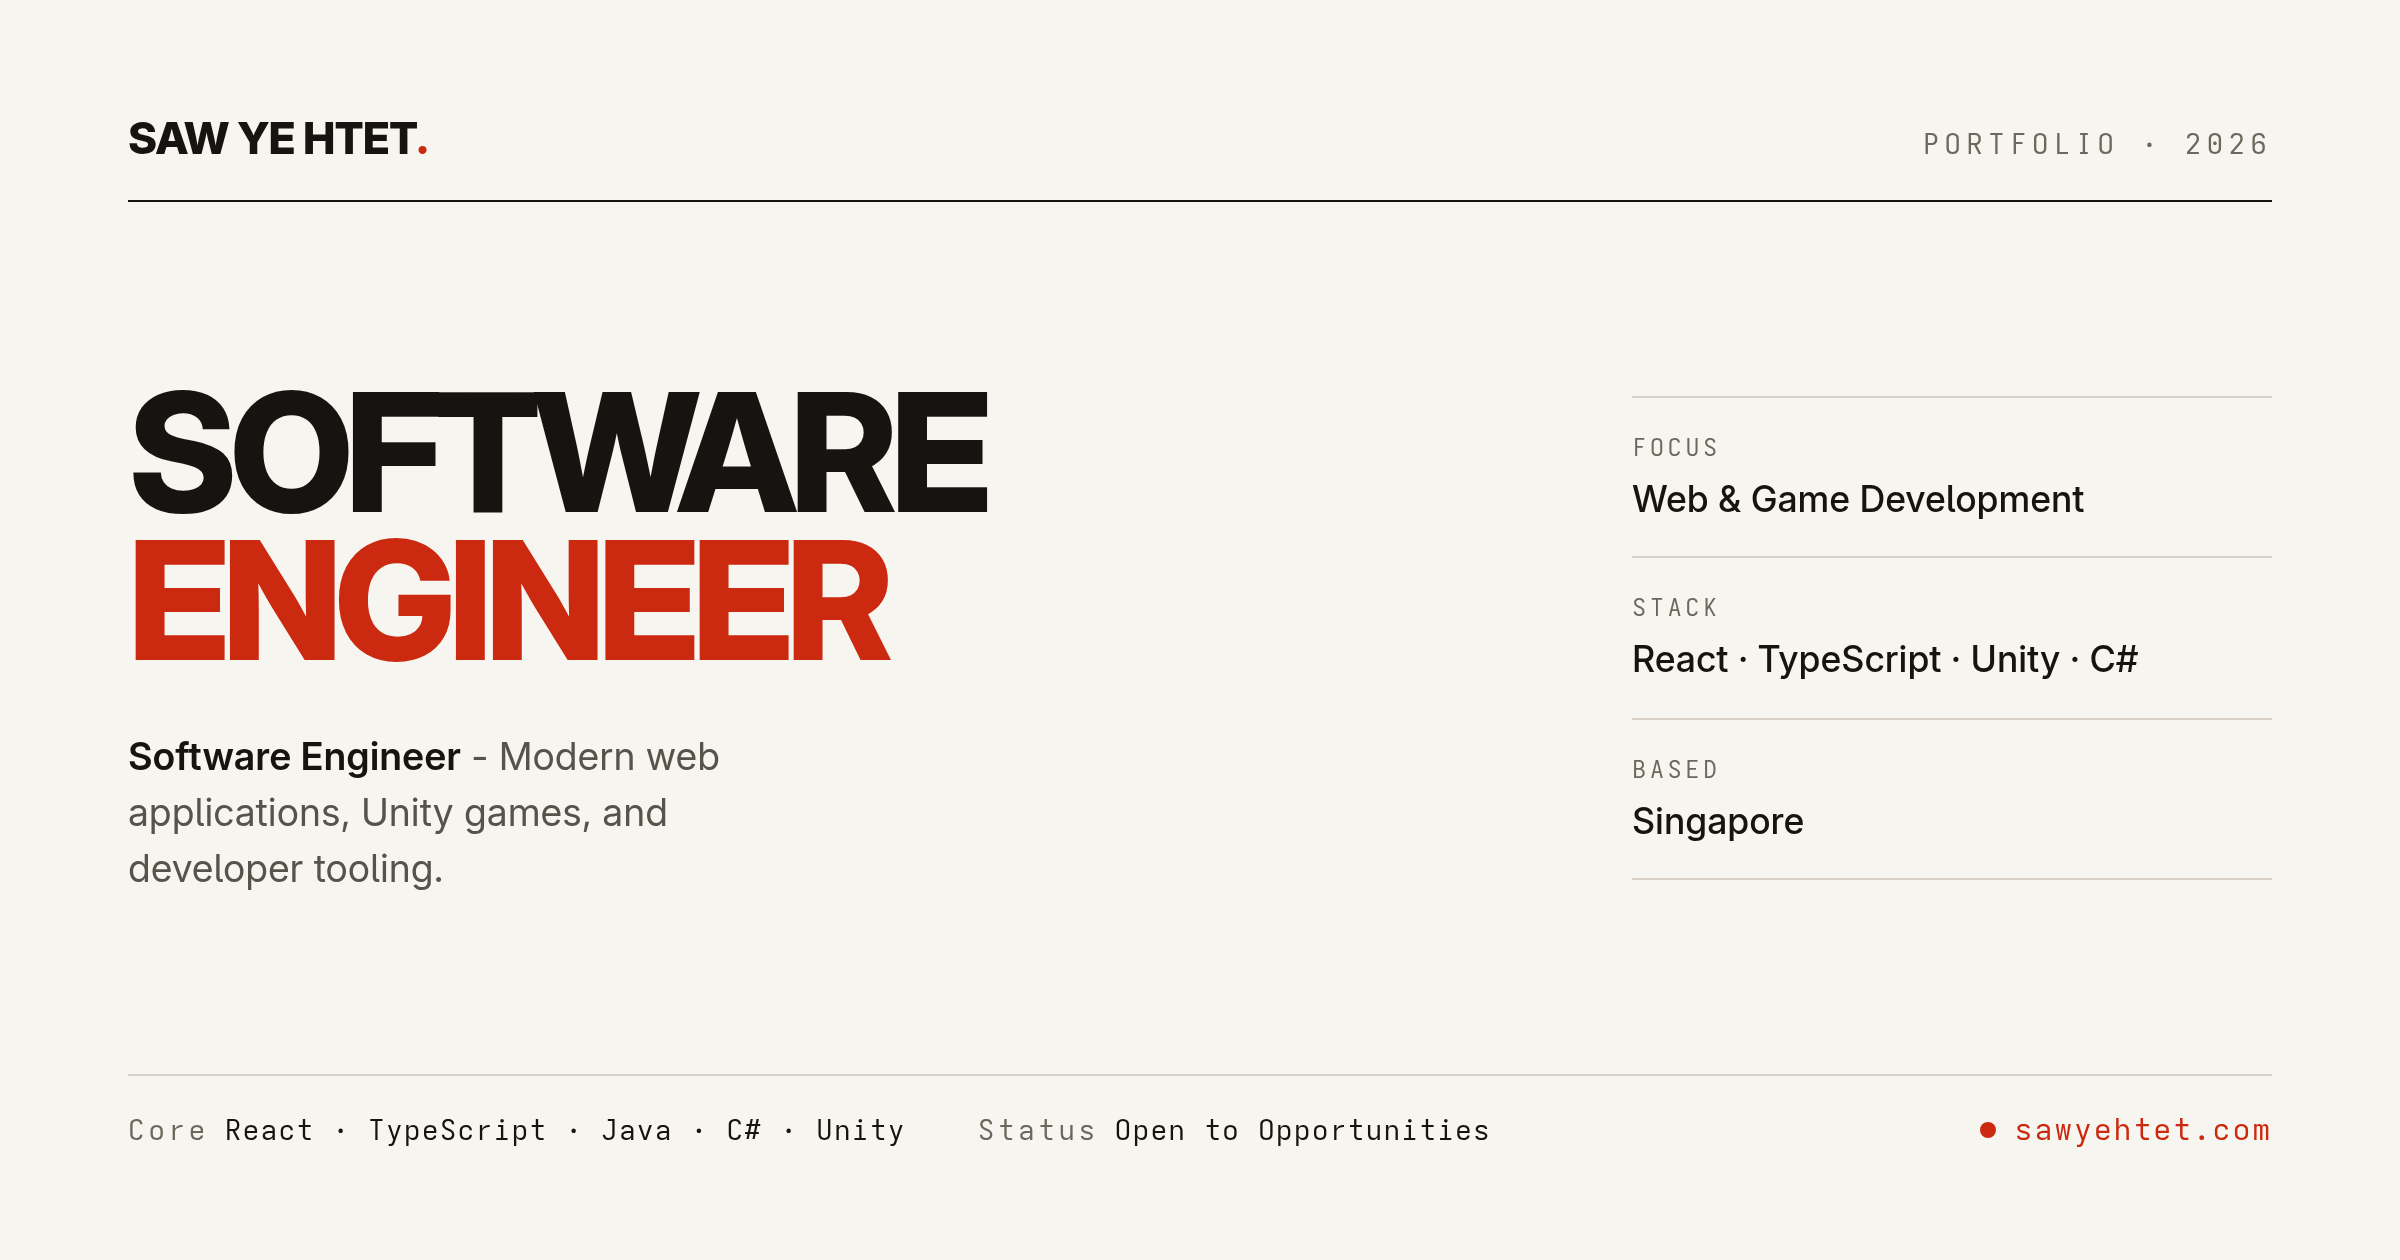
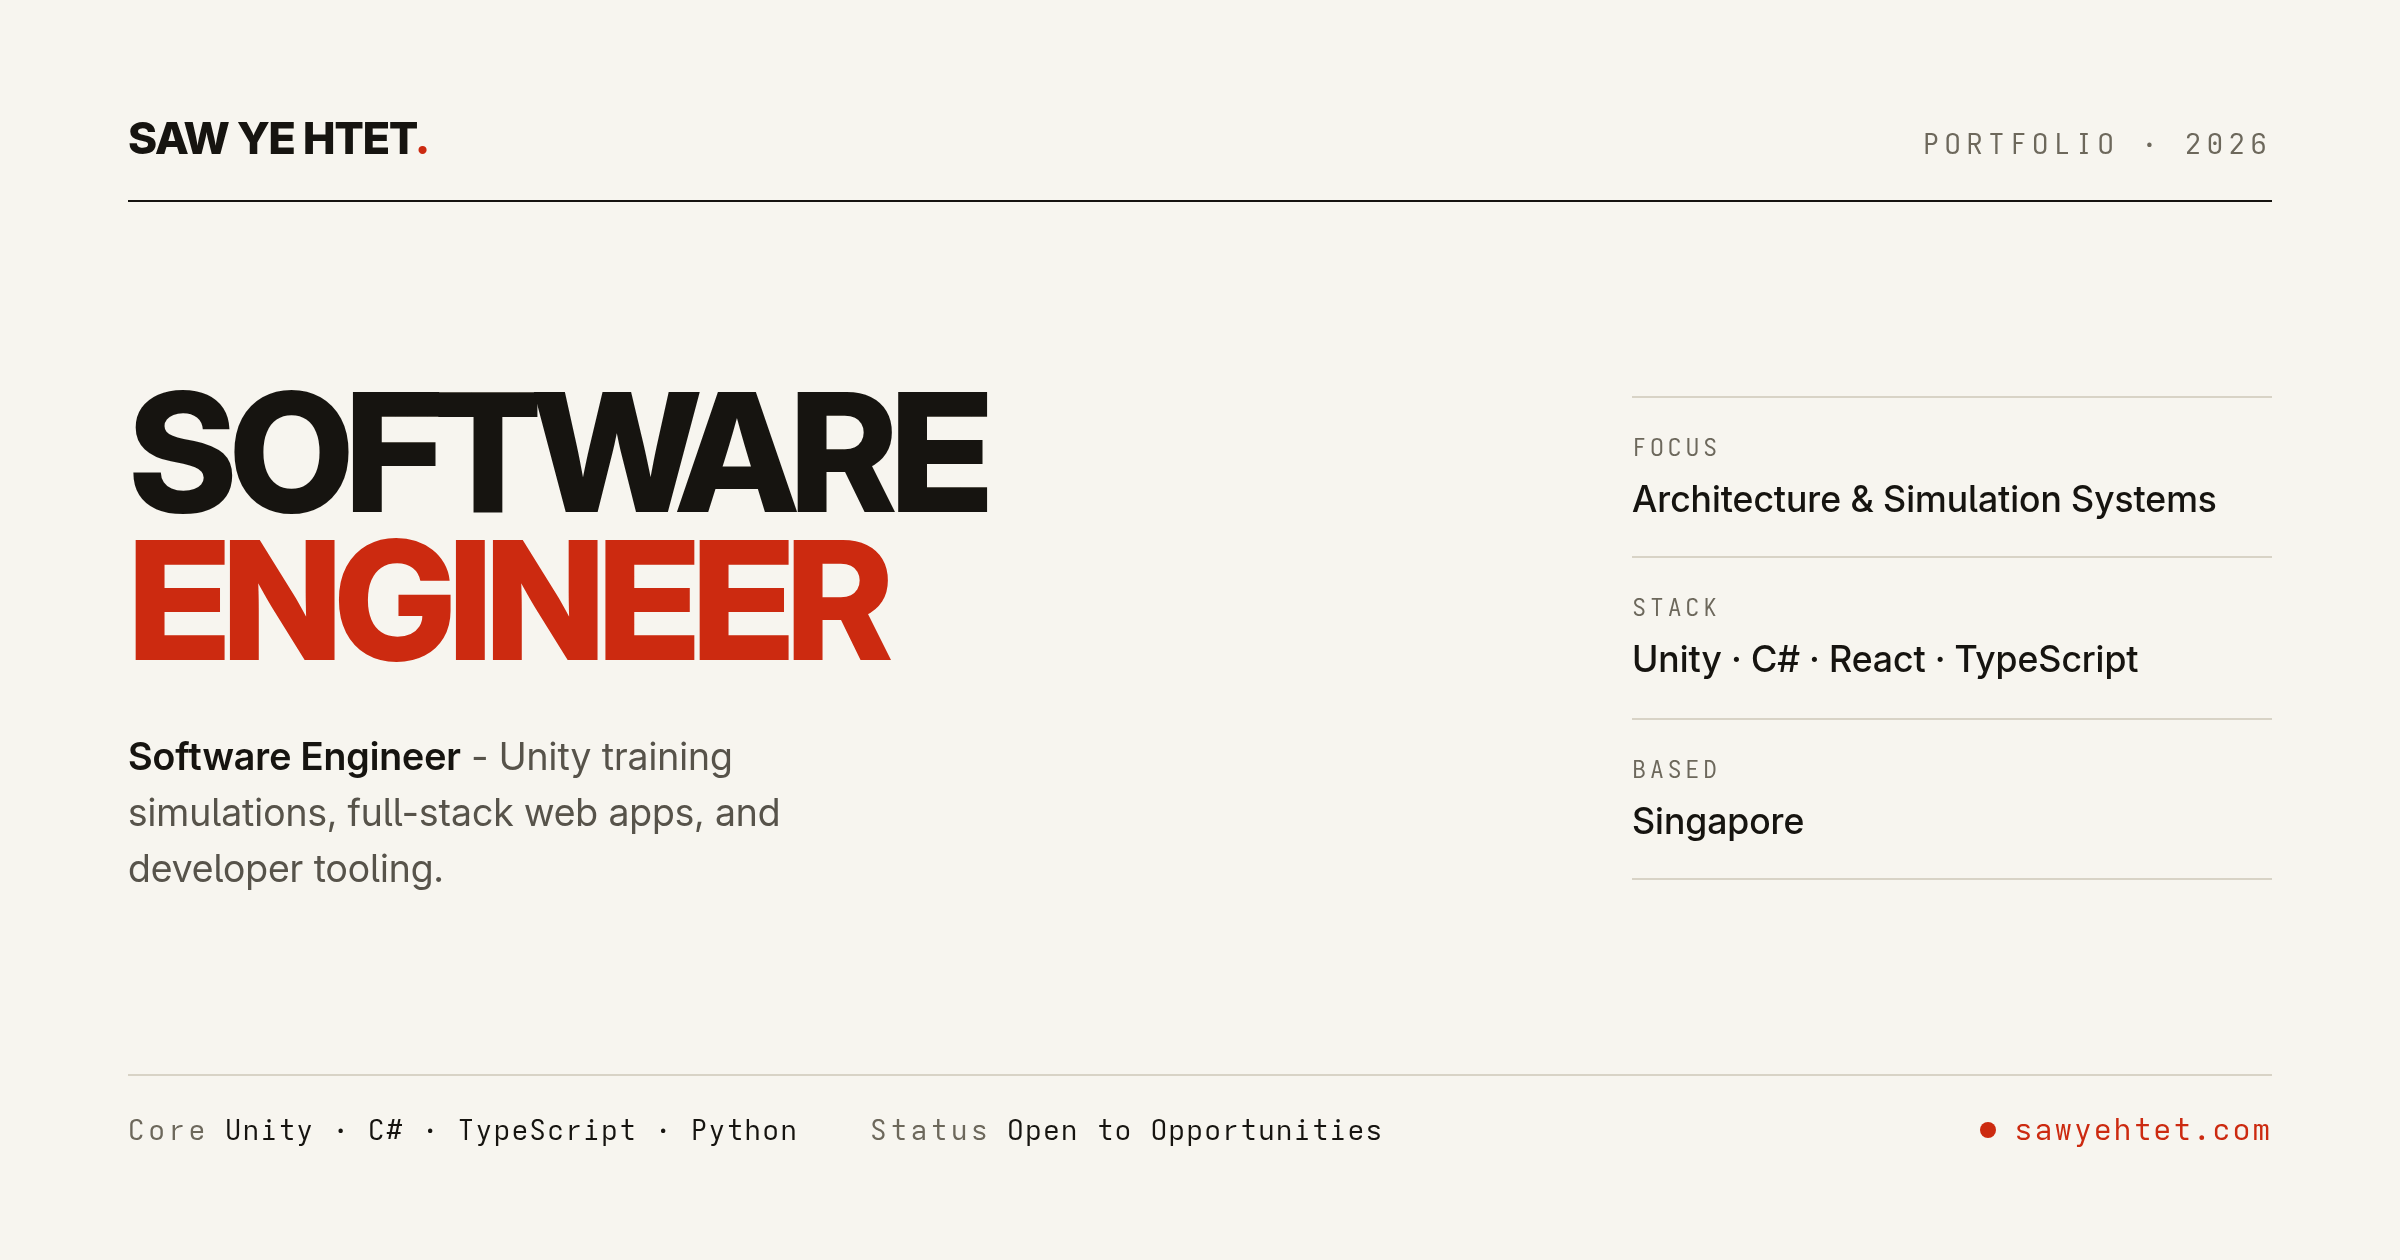
feat(copy): retune positioning toward Unity training-simulation roles

diff --git a/src/config/editorial-data.ts b/src/config/editorial-data.ts
@@ -7,9 +7,9 @@ export const EXPERIENCE: ExperienceItem[] = [
         period: 'Apr 2025 – Feb 2026',
         location: 'Singapore',
         bullets: [
-            'Built and maintained Unity (C#) VR training scenarios used across the centre\'s maritime safety research programmes on Meta Quest hardware.',
-            'Owned the delivery loop end to end: translating researcher requirements into scenario flows, shipping builds, and running user testing with trainees.',
-            'Authored reproducible setup and troubleshooting guides that let centre staff run lab sessions without developer support.',
+            'Built and maintained Unity (C#) training environments and scenarios used across the centre\'s maritime safety research programmes on Meta Quest hardware.',
+            'Owned the delivery loop end to end: translating subject-matter-expert requirements into configurable scenario flows, shipping builds, and running user testing with trainees to keep training realism.',
+            'Authored reproducible setup and troubleshooting guides that ensured codebase and lab continuity, letting centre staff run sessions without developer support.',
         ],
         stack: ['Unity (C#)', 'Meta Quest', 'XR Interaction Toolkit', 'OculusXR'],
     },
@@ -27,42 +27,18 @@ export const EXPERIENCE: ExperienceItem[] = [
 
 export const PROJECTS: Project[] = [
     {
-        id: 'tokey',
-        title: 'Tokey: Token & Cost Tracker for Claude Code',
-        role: 'Developer',
-        summary:
-            'Real-time per-prompt token cost tracker CLI for Claude Code, built to monitor LLM usage directly in developer terminal workflows.',
-        context: 'Independent open-source CLI tool for Claude Code (2026)',
-        whatIBuilt:
-            'Built an asynchronous Python CLI tool that parses terminal event streams in real time to calculate live token usage and per-prompt cost estimations directly without external transcript scraping dependencies or latency overhead.',
-        tools: ['Python', 'pytest', 'CLI Architecture', 'Git'],
-        outcome:
-            'Published as an open-source CLI package on GitHub backed by a 293-test unit test suite built with Test-Driven Development (TDD).',
-        videoPreview: '/images/projects/tokey-preview.mp4',
-        links: [
-            {
-                label: 'View on GitHub',
-                href: 'https://github.com/sawyehtet-dev/tokey',
-            },
-            {
-                label: 'LinkedIn Post',
-                href: 'https://www.linkedin.com/posts/sawyehtet_i-made-a-small-tool-for-claude-code-cli-called-ugcPost-7472600055208865792-RM7I/',
-            },
-        ],
-    },
-    {
         id: 'maritime-vr',
         title: 'Methanol Bunkering Safety VR Training',
         role: 'Unity VR Developer',
         summary:
-            'Interactive VR safety training scenarios for maritime emergency response and clean fuel handling research at SP CEMS.',
+            'Interactive VR training simulation for maritime emergency response and clean fuel handling, built with Unity for safety research at SP CEMS.',
         context:
             'Centre of Excellence in Maritime Safety (CEMS), Singapore Polytechnic (Apr 2025 – Feb 2026)',
         whatIBuilt:
-            'Built modular C# state machines with explicit step preconditions for maritime emergency procedures, integrating OculusXR and XR Interaction Toolkit for reliable Quest controller mapping. Tuned dynamic LOD and draw call batching to maintain 90 FPS on standalone Quest hardware.',
-        tools: ['Unity 3D', 'C#', 'XR Interaction Toolkit', 'OculusXR', 'Meta Quest'],
+            'Designed a modular C# state-machine architecture with explicit step preconditions for configurable training scenarios, integrating OculusXR and XR Interaction Toolkit for reliable operator-facing interactions on Quest controllers. Tuned dynamic LOD and draw call batching to maintain 90 FPS on standalone hardware.',
+        tools: ['Unity 3D', 'C#', 'Scene Management', 'XR Interaction Toolkit', 'OculusXR', 'Meta Quest'],
         outcome:
-            'Deployed in 12 structured lab sessions over 11 months, providing researchers with consistent simulation data and staff with independent setup guides.',
+            'Deployed in 12 structured lab sessions over 11 months, giving researchers consistent simulation data and staff documentation to run sessions independently.',
         videoPreview: '/images/projects/methanol-bunkering-preview.mp4',
         links: [
             {
@@ -100,23 +76,49 @@ export const PROJECTS: Project[] = [
             },
         ],
     },
+    {
+        id: 'tokey',
+        title: 'Tokey: Token & Cost Tracker for Claude Code',
+        role: 'Developer',
+        summary:
+            'Real-time per-prompt token cost tracker CLI for Claude Code, built to monitor LLM usage directly in developer terminal workflows.',
+        context: 'Independent open-source CLI tool for Claude Code (2026)',
+        whatIBuilt:
+            'Built an asynchronous Python CLI tool that parses terminal event streams in real time to calculate live token usage and per-prompt cost estimations directly without external transcript scraping dependencies or latency overhead.',
+        tools: ['Python', 'pytest', 'CLI Architecture', 'Git'],
+        outcome:
+            'Published as an open-source CLI package on GitHub backed by a 293-test unit test suite built with Test-Driven Development (TDD).',
+        videoPreview: '/images/projects/tokey-preview.mp4',
+        links: [
+            {
+                label: 'View on GitHub',
+                href: 'https://github.com/sawyehtet-dev/tokey',
+            },
+            {
+                label: 'LinkedIn Post',
+                href: 'https://www.linkedin.com/posts/sawyehtet_i-made-a-small-tool-for-claude-code-cli-called-ugcPost-7472600055208865792-RM7I/',
+            },
+        ],
+    },
 ];
 
 export const SKILLS: SkillGroup[] = [
     {
-        category: 'Programming Languages',
-        tools: ['Java', 'C#', 'TypeScript', 'JavaScript', 'Python', 'SQL'],
-    },
-    {
         category: 'Game & XR Development',
         tools: [
             'Unity 3D (C#)',
+            'Scene Management',
+            'Performance Optimization',
             'Meta Interaction SDK',
             'XR Interaction Toolkit',
             'OpenXR',
             'bHaptics SDK',
             'Hand Tracking',
         ],
+    },
+    {
+        category: 'Programming Languages',
+        tools: ['C#', 'Python', 'Java', 'TypeScript', 'JavaScript', 'SQL'],
     },
     {
         category: 'Web & Backend',
@@ -126,8 +128,8 @@ export const SKILLS: SkillGroup[] = [
         category: 'Engineering & Tools',
         tools: [
             'Test-Driven Development (TDD)',
-            'pytest',
             'Git & GitHub',
+            'pytest',
             'Linux CLI',
             'Postman',
             'Vite',

diff --git a/index.html b/index.html
@@ -5,7 +5,7 @@
         <meta name="viewport" content="width=device-width, initial-scale=1.0, viewport-fit=cover" />
         <meta
             name="description"
-            content="Software Engineer in Singapore building modern web applications, Unity games, and developer tooling. View case studies and resume."
+            content="Software Engineer in Singapore building Unity training simulations, web applications, and developer tooling. Clean architecture, TDD, and cross-team collaboration. View case studies and resume."
         />
         <meta name="robots" content="index, follow" />
         <meta name="application-name" content="Saw Ye Htet" />
@@ -17,7 +17,7 @@
         <meta property="og:title" content="Saw Ye Htet" />
         <meta
             property="og:description"
-            content="Software Engineer in Singapore building modern web applications, Unity games, and developer tooling. View case studies and resume."
+            content="Software Engineer in Singapore building Unity training simulations, web applications, and developer tooling. Clean architecture, TDD, and cross-team collaboration. View case studies and resume."
         />
         <meta property="og:image" content="https://sawyehtet.com/images/og-preview.png" />
         <meta property="og:image:width" content="2400" />
@@ -29,7 +29,7 @@
         <meta name="twitter:title" content="Saw Ye Htet" />
         <meta
             name="twitter:description"
-            content="Software Engineer in Singapore building modern web applications, Unity games, and developer tooling. View case studies and resume."
+            content="Software Engineer in Singapore building Unity training simulations, web applications, and developer tooling. Clean architecture, TDD, and cross-team collaboration. View case studies and resume."
         />
         <meta name="twitter:url" content="https://sawyehtet.com/" />
         <meta name="twitter:image" content="https://sawyehtet.com/images/og-preview.png" />
@@ -113,7 +113,7 @@
                 "image": "https://sawyehtet.com/images/profile-picture.webp",
                 "email": "sawyehtet.dev@gmail.com",
                 "jobTitle": "Software Engineer",
-                "description": "Singapore Polytechnic IT graduate (2026) and Software Engineer specializing in modern web applications, Unity games, and developer tooling.",
+                "description": "Singapore Polytechnic IT graduate (2026) and Software Engineer specializing in Unity training simulations, web applications, and developer tooling, with a focus on architecture and cross-team collaboration.",
                 "address": {
                     "@type": "PostalAddress",
                     "addressCountry": "SG"
@@ -133,18 +133,23 @@
                     }
                 },
                 "knowsAbout": [
+                    "Game Development",
+                    "Training Simulation",
+                    "Unity 3D",
+                    "C#",
+                    "Scene Management",
+                    "Virtual Reality",
+                    "Meta Quest",
+                    "Extended Reality (XR)",
+                    "Performance Optimization",
                     "Web Development",
                     "React",
                     "TypeScript",
                     "JavaScript",
                     "Java",
-                    "C#",
-                    "Unity 3D",
-                    "Virtual Reality",
-                    "Meta Quest",
+                    "Python",
                     "REST APIs",
                     "SQL",
-                    "Python",
                     "Test-Driven Development (TDD)"
                 ],
                 "sameAs": [
@@ -186,11 +191,12 @@
                 >
                     <h1 style="font-size: 26px; margin: 0 0 4px; font-weight: 700">Saw Ye Htet</h1>
                     <p style="margin: 0 0 16px; font-size: 17px; opacity: 0.85; font-weight: 600">
-                        Software Engineer · Web &amp; Game Development
+                        Software Engineer · Unity Simulations &amp; Full-Stack Web
                     </p>
                     <p style="margin: 0 0 24px; font-size: 14px; opacity: 0.7; line-height: 1.6">
                         Singapore Polytechnic IT graduate (2026) and Software Engineer specializing in
-                        modern web applications, Unity games, and developer tooling.
+                        Unity training simulations, web applications, and developer tooling, with a
+                        focus on architecture and cross-team collaboration.
                     </p>
                     <div style="display: flex; gap: 10px; flex-wrap: wrap; margin-bottom: 24px">
                         <a

diff --git a/src/site/WorkPage.tsx b/src/site/WorkPage.tsx
@@ -25,9 +25,11 @@ function Hero() {
 
             <div className="ed-hero-body">
                 <p className="ed-hero-summary">
-                    Software engineer in Singapore building modern web applications, Unity games,
-                    and developer tooling. Focused on test-driven development, clear API design,
-                    and performant Java, TypeScript, Python, and C# code.
+                    Software engineer in Singapore building Unity training simulations, modern web
+                    applications, and developer tooling. Focused on modular architecture,
+                    test-driven C#, Python, and TypeScript, and the clear documentation and
+                    collaboration that keep a codebase healthy across engineering, research, and
+                    operational teams.
                 </p>
 
                 <div className="ed-hero-actions">

diff --git a/src/config/profile.ts b/src/config/profile.ts
@@ -1,5 +1,5 @@
-// Primary focus: Full-Stack Web & Game Development (React, TypeScript, Java, C#, Unity, XR Systems).
-// Kept in sync with Saw_Ye_Htet_Software_Engineer_Resume.pdf.
+// Primary focus: Software Engineer - Unity simulation systems and full-stack web,
+// emphasizing architecture, documentation, and cross-team collaboration.
 export const PROFILE = {
     name: 'Saw Ye Htet',
     role: 'Software Engineer',
